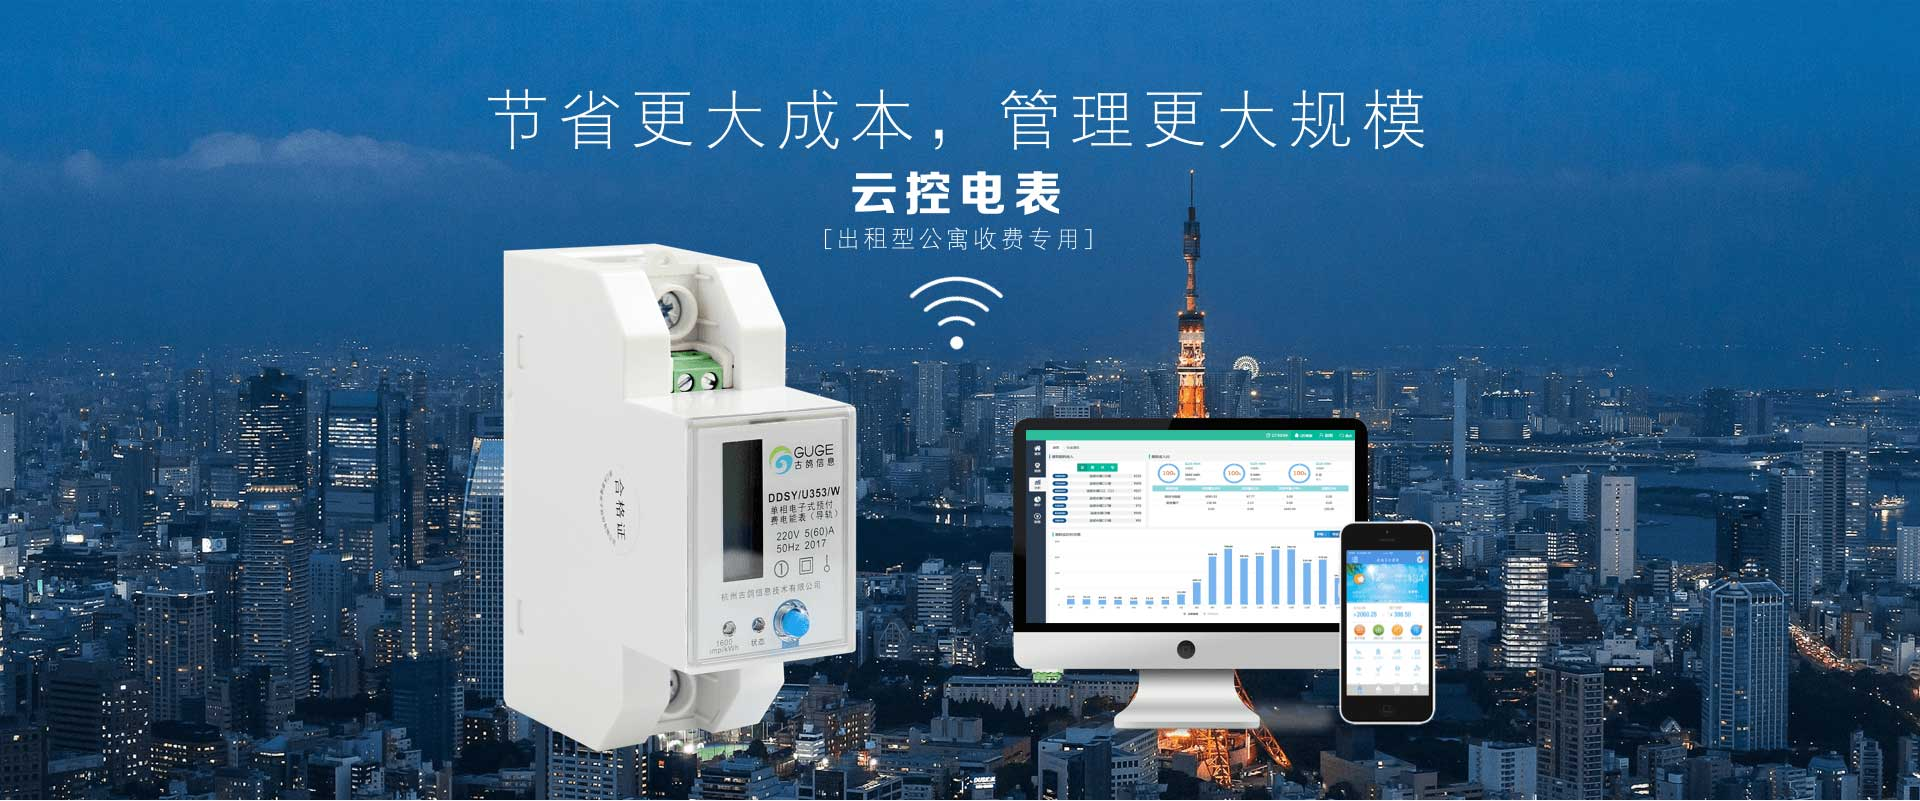
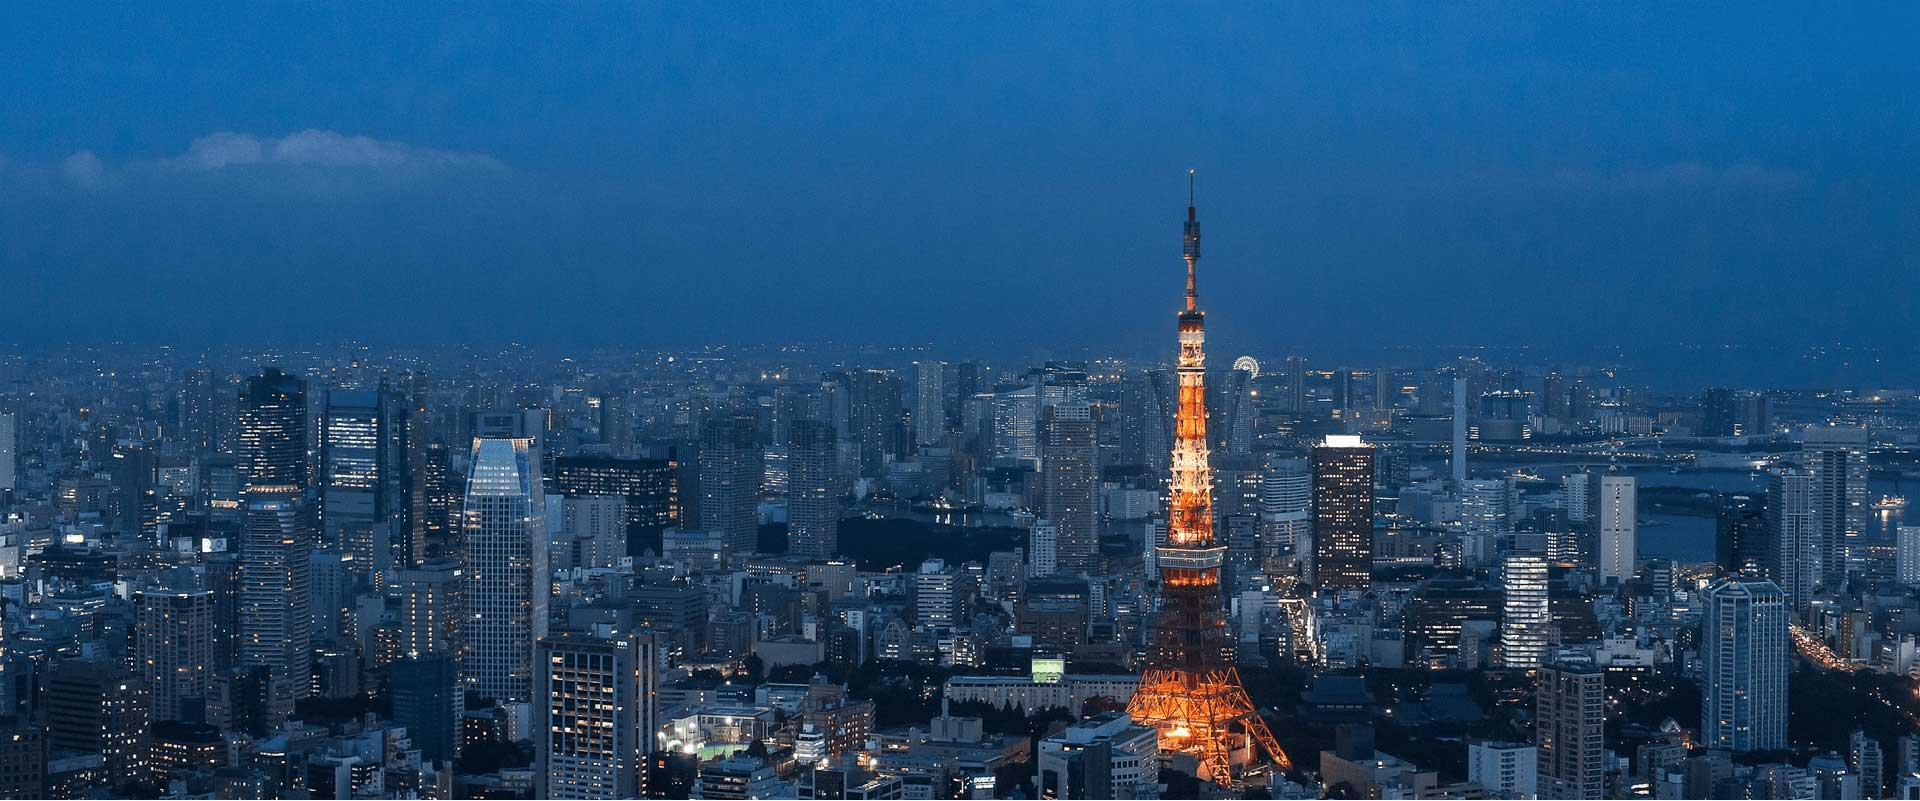
局部布局修改

diff --git a/cloudmeter.html b/cloudmeter.html
@@ -100,8 +100,8 @@
         </div>
     </div>
 
-    <div class="container text-center m-0-a pt100">
-        <img src="img/cloudmeter/cm-bg1.jpg" alt="" width="100%">
+    <div class="container text-center m-0-a cm-bg1">
+        <img src="img/cloudmeter/cm-bg1-1.png" alt="" class="mt80">
     </div>
     <div class="container text-center cm-bg2 m-0-a pt50 pb50" style="height:700px;">
         <p style="font-size: 30px;color: #fff;">WiFi传输，通讯稳定，安装方便，调试简单</p>
@@ -152,7 +152,7 @@
             <p class="gray">警报并自动断电，避免火灾发生。</p>
         </div>
     </div>
-    <div class="container text-center m-0-a"><img class="cm-bg2" src="img/cloudmeter/cm-bg2.jpg" alt=""></div>
+    <div class="container text-center m-0-a cm-bg4"><img src="img/cloudmeter/cm-bg2-1.png " alt="" class="mt80"></div>
     <div class="space"></div>
     <div class="company layout">
         <h3 class="font-black">合作伙伴</h3>

diff --git a/css/base/base.css b/css/base/base.css
@@ -604,6 +604,18 @@
 			color: #666;
 		}
 
+		.cm-bg1 {
+			background: url('../../img/cloudmeter/cm-bg1.jpg') no-repeat center center;
+			height: 800px;
+			width: 100%;
+		}
+
+		.cm-bg4 {
+			background: url('../../img/cloudmeter/cm-bg2.jpg') no-repeat center center;
+			height: 800px;
+			width: 100%;
+		}
+
 		.cm-bg2 {
 			background: #4a4a4a;
 			width: 100%;
